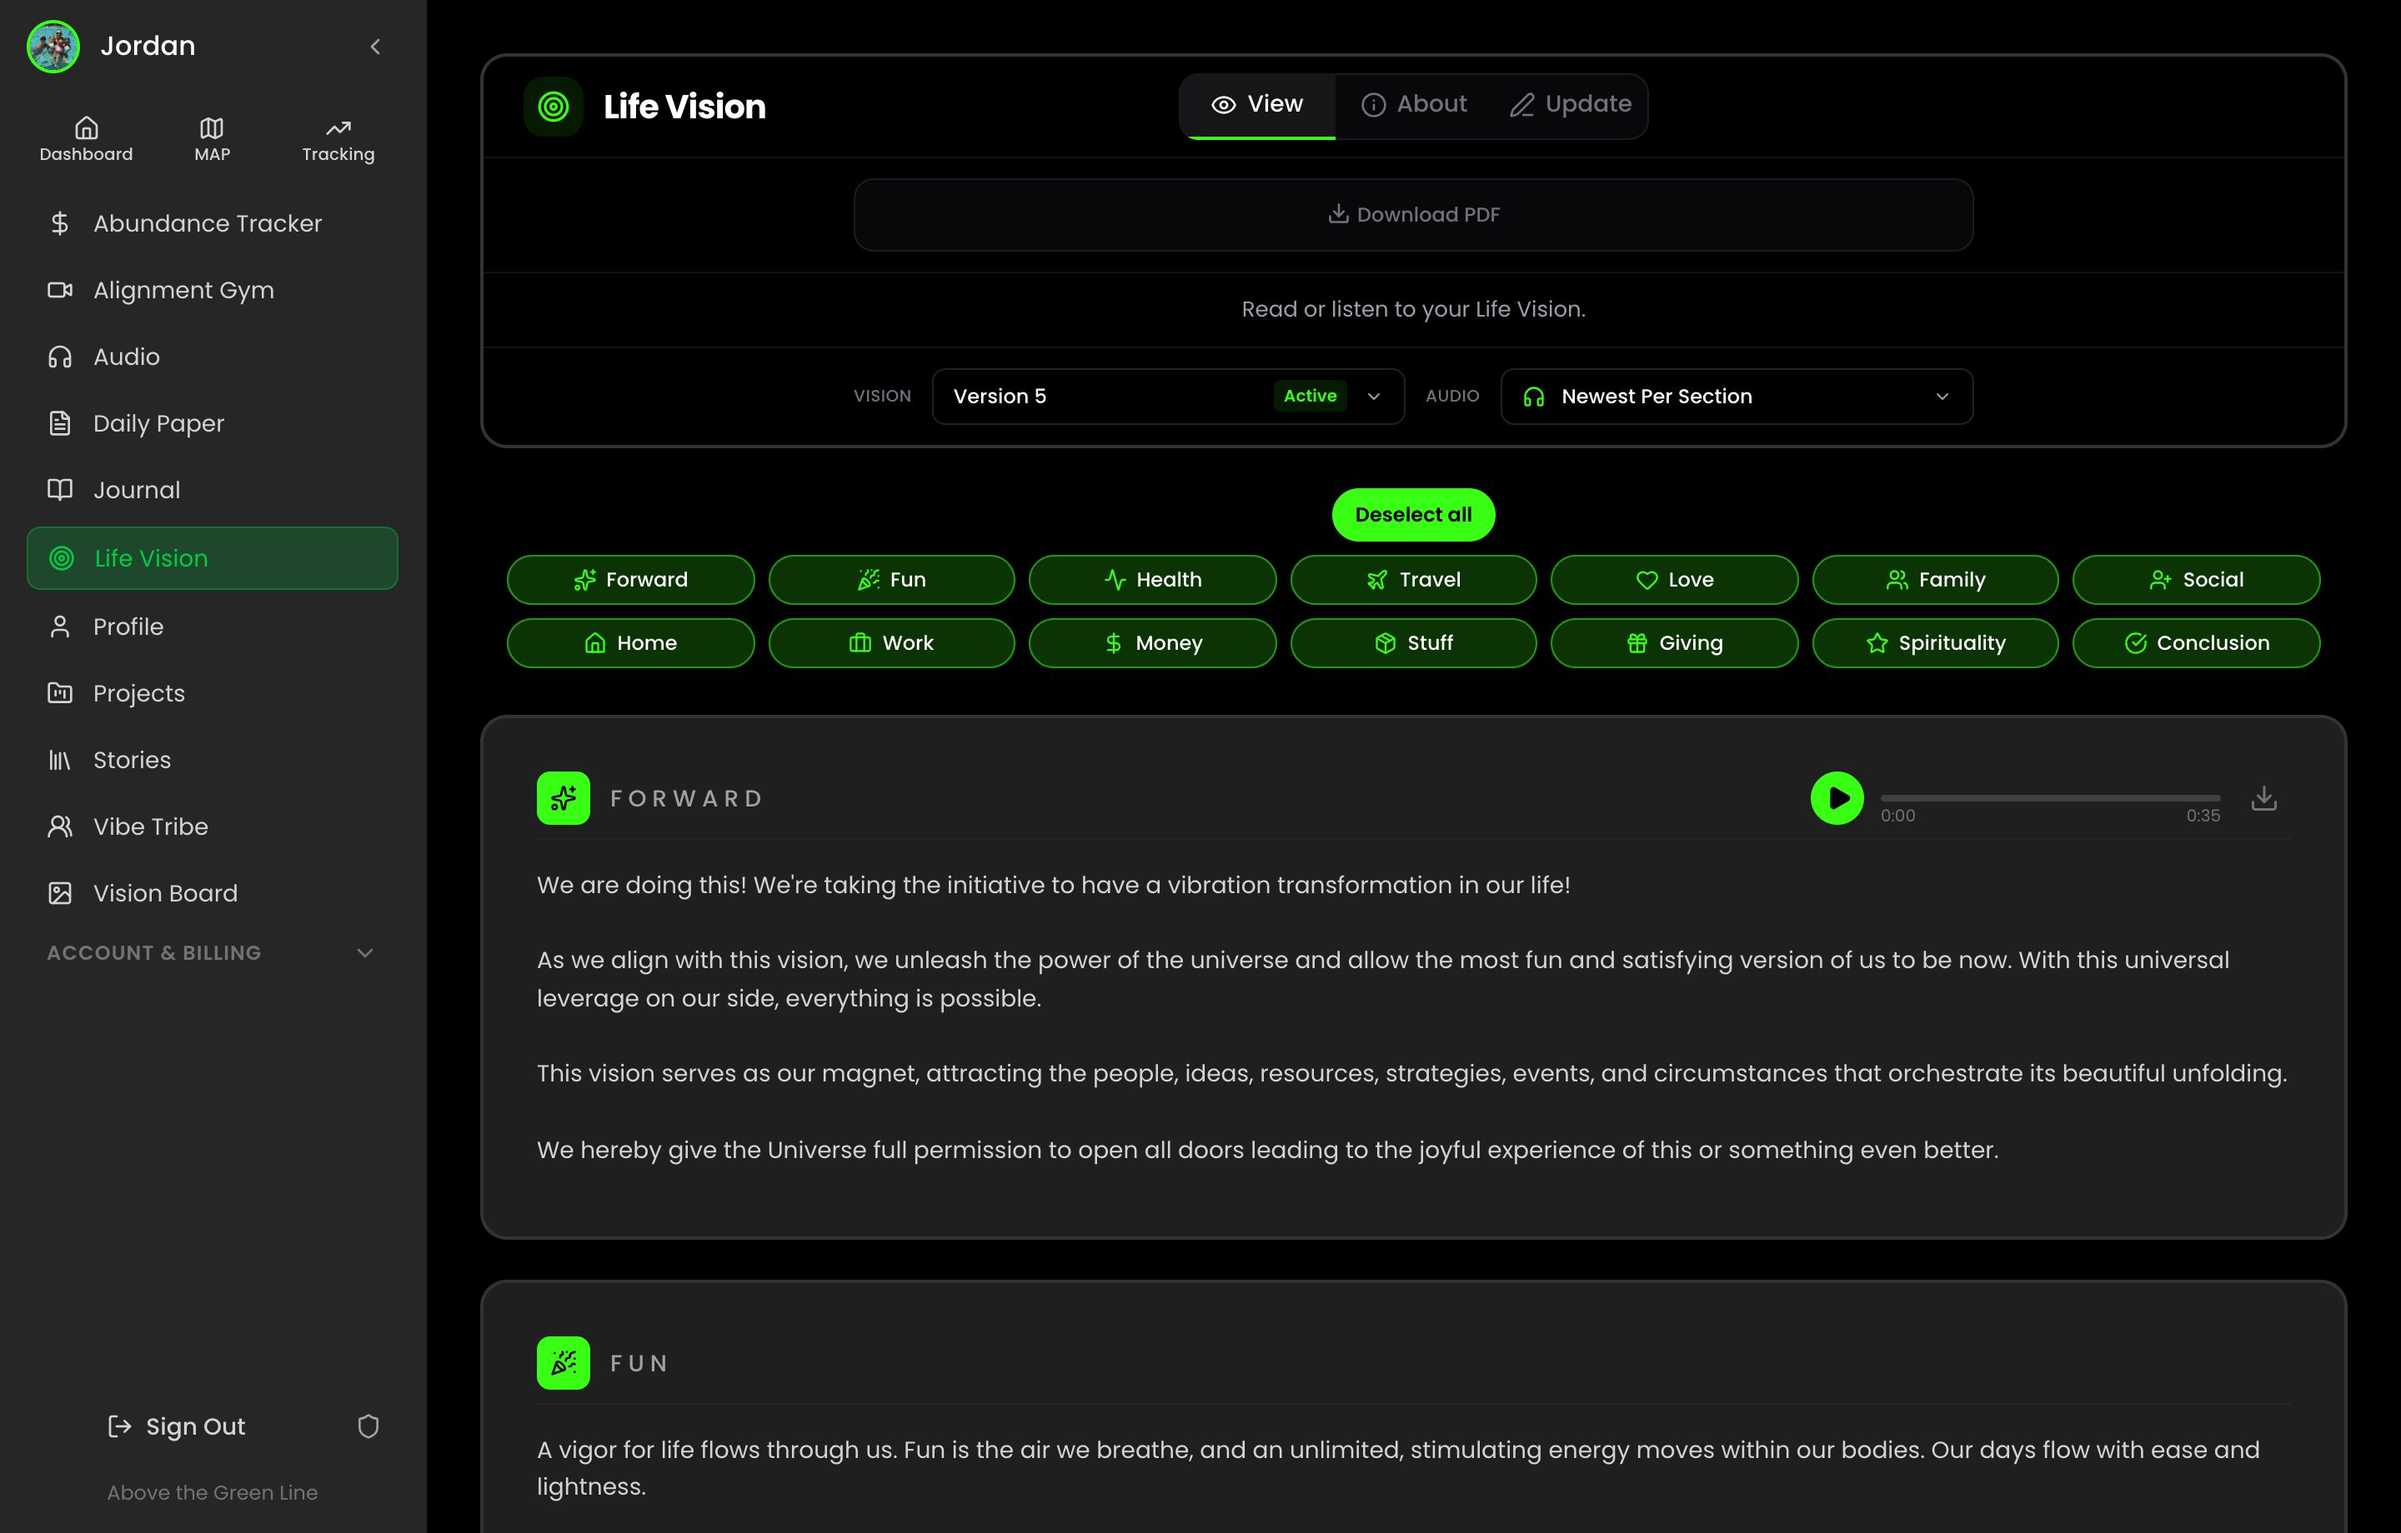
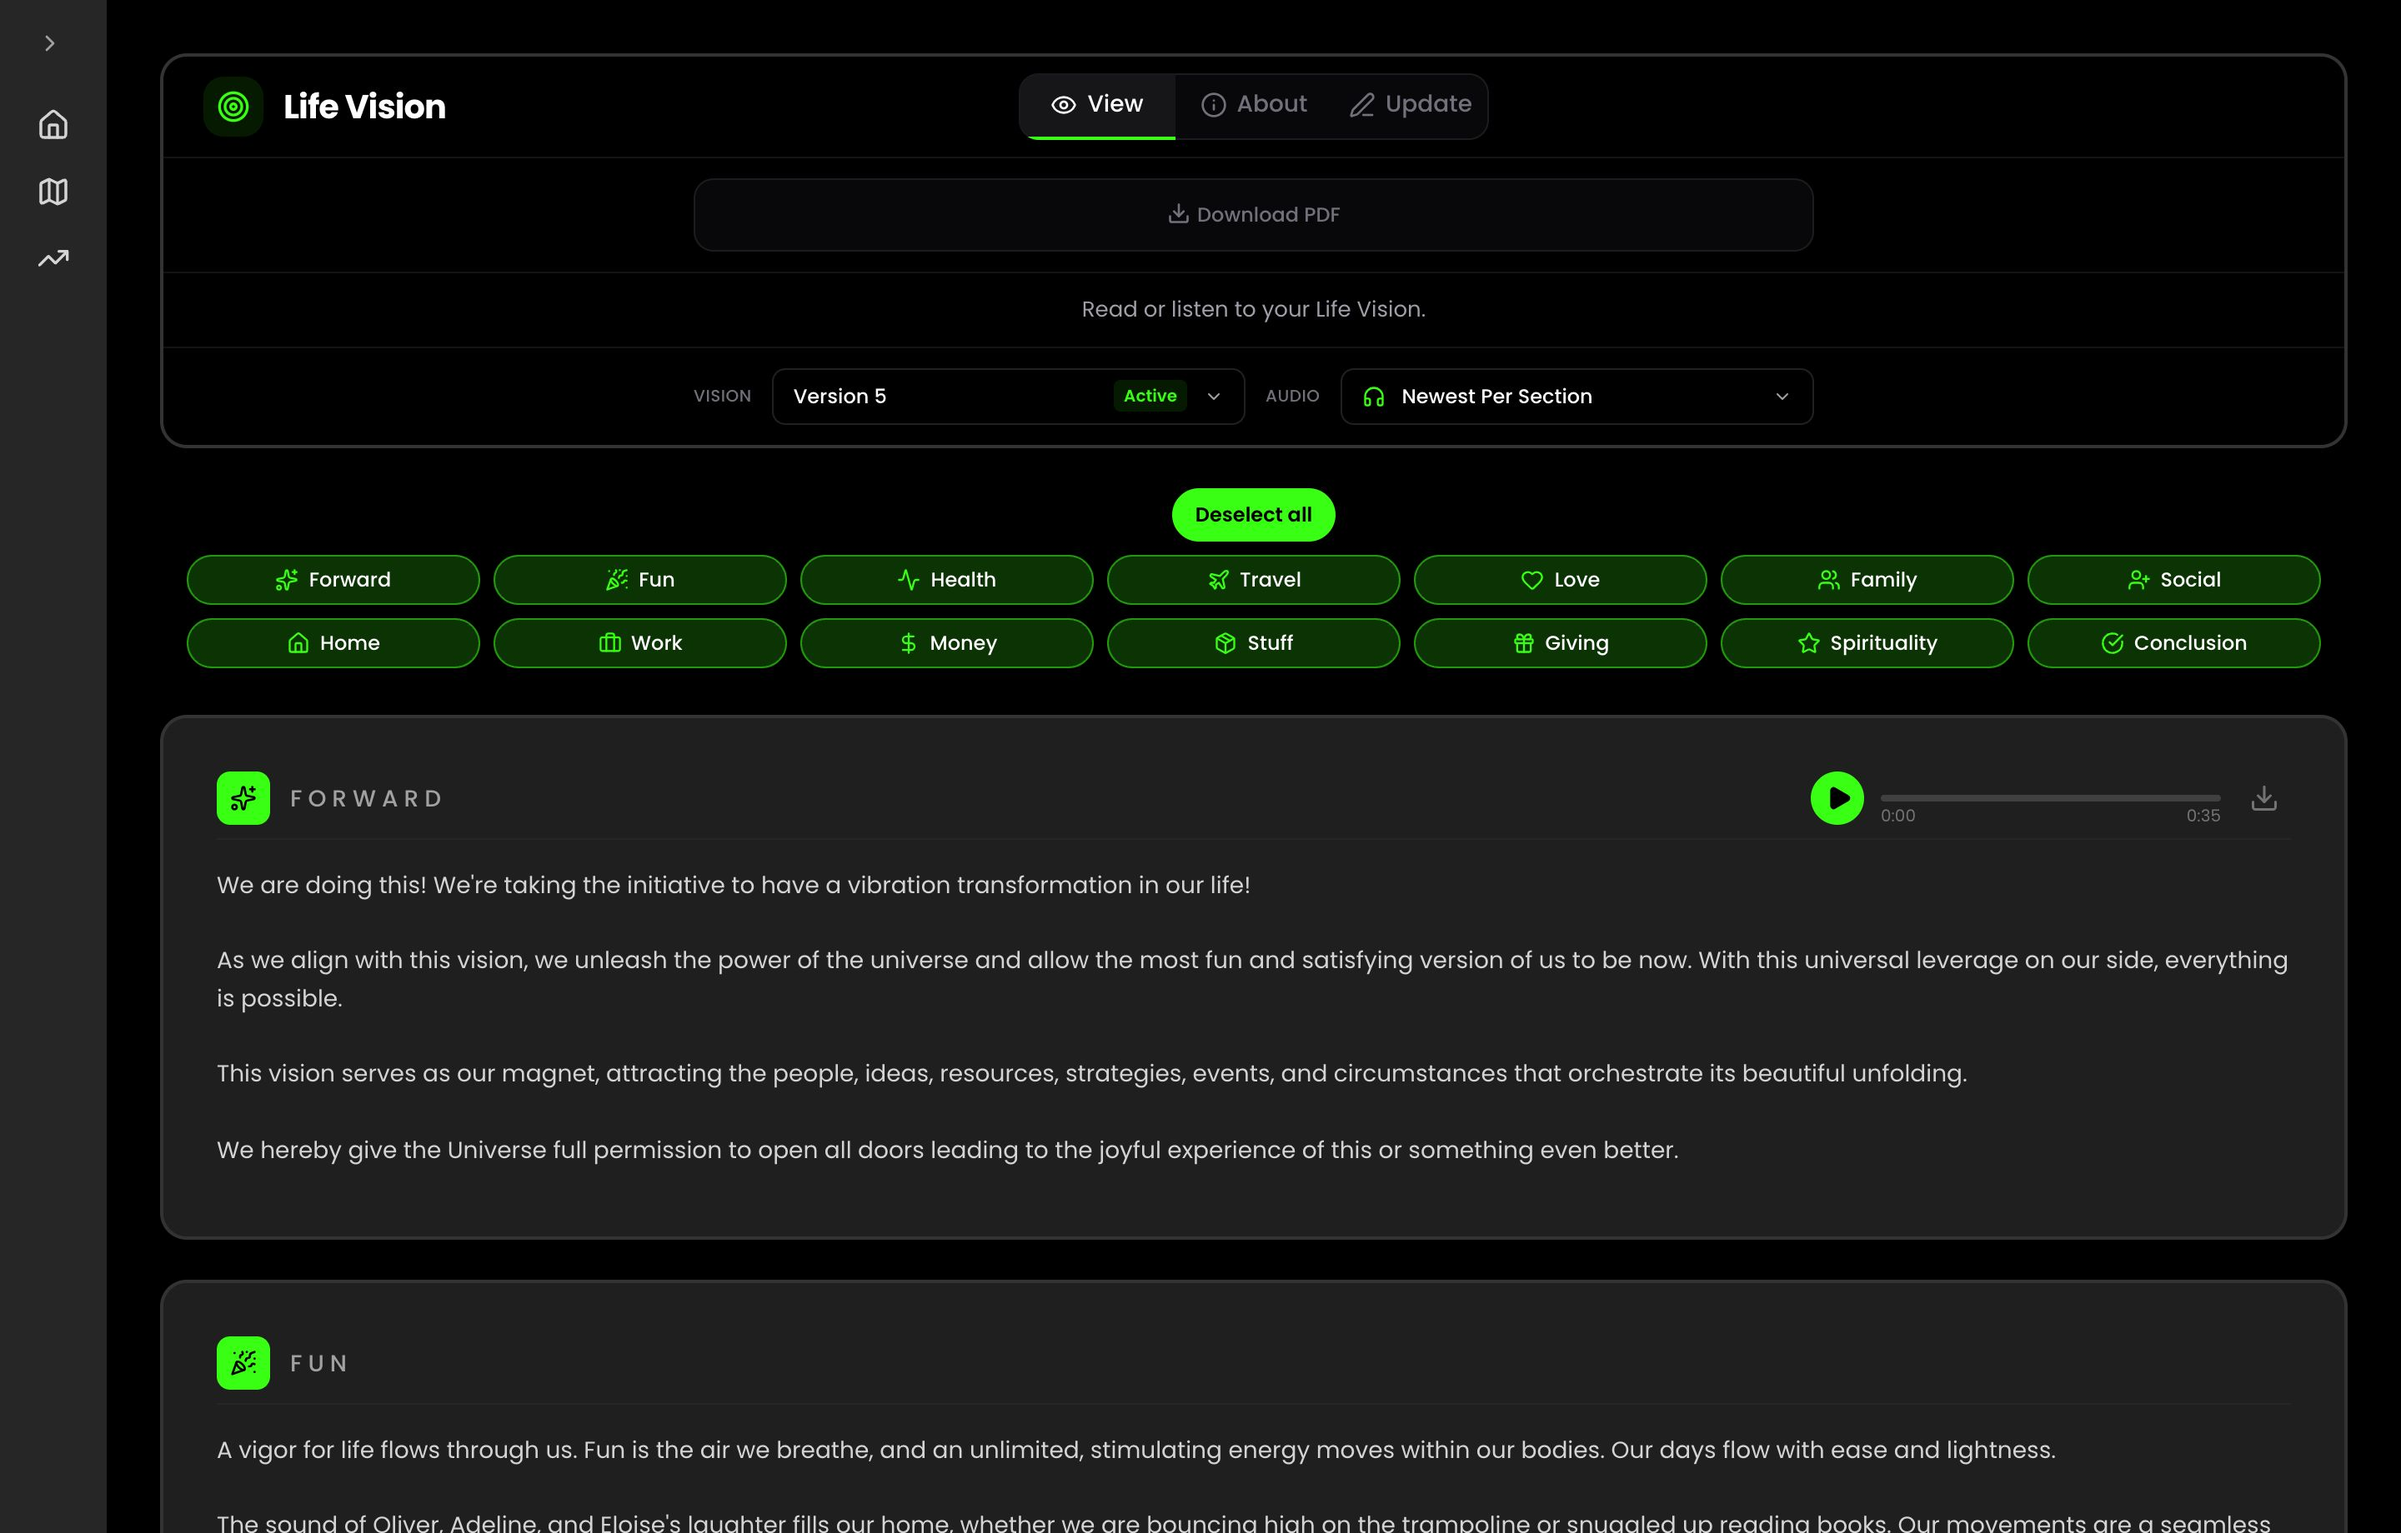
feat: scroll two columns of real platform screenshots on the homepage preview
Show the product across Life Vision, MAP, Vision Board, and the rest of the studio instead of three static frames.

diff --git a/src/components/marketing/home/PlatformScreens.tsx b/src/components/marketing/home/PlatformScreens.tsx
@@ -1,38 +1,144 @@
 import Image from 'next/image'
 
-const SHOTS = [
+type Shot = {
+  src: string
+  alt: string
+  width: number
+  height: number
+}
+
+const LEFT: Shot[] = [
+  {
+    src: '/home-preview/screenshots/vibe-tribe.jpg',
+    alt: 'Vibe Tribe community feed with member wins',
+    width: 2880,
+    height: 1840,
+  },
   {
     src: '/home-preview/screenshots/life-vision.jpg',
-    alt: 'Life Vision in Vibration Fit: Version 5 with Forward, Fun, and the twelve life categories',
-    label: 'Life Vision',
+    alt: 'Life Vision with the twelve life categories',
+    width: 2880,
+    height: 1840,
+  },
+  {
+    src: '/home-preview/screenshots/dashboard.jpg',
+    alt: 'Vibration Fit dashboard',
+    width: 2880,
+    height: 1840,
+  },
+  {
+    src: '/home-preview/screenshots/journal.jpg',
+    alt: 'Journal entries in Vibration Fit',
+    width: 2880,
+    height: 1840,
+  },
+  {
+    src: '/home-preview/screenshots/audio.jpg',
+    alt: 'Audio Studio playing Life Vision audio',
+    width: 2880,
+    height: 1840,
+  },
+  {
+    src: '/home-preview/screenshots/abundance-tracker.jpg',
+    alt: 'Abundance Tracker',
+    width: 2880,
+    height: 1840,
+  },
+  {
+    src: '/home-preview/screenshots/projects.jpg',
+    alt: 'Projects in Vibration Fit',
+    width: 2880,
+    height: 1840,
+  },
+]
+
+const RIGHT: Shot[] = [
+  {
+    src: '/home-preview/screenshots/vision-board.jpg',
+    alt: 'Vision Board with actualized items',
+    width: 2880,
+    height: 1840,
   },
   {
     src: '/home-preview/screenshots/map.jpg',
-    alt: 'My Alignment Plan in Vibration Fit: today\'s Activate, Create, Connect, and Attend plus custom commitments',
-    label: 'My Alignment Plan',
+    alt: 'My Alignment Plan for today',
+    width: 2880,
+    height: 1840,
   },
   {
-    src: '/home-preview/screenshots/vision-board.jpg',
-    alt: 'Vision Board in Vibration Fit: actualized items with vision and reality side by side',
-    label: 'Vision Board',
+    src: '/home-preview/screenshots/tracking.jpg',
+    alt: 'Tracking streaks and metrics',
+    width: 2880,
+    height: 1840,
   },
-] as const
+  {
+    src: '/home-preview/screenshots/alignment-gym.jpg',
+    alt: 'The Alignment Gym',
+    width: 2880,
+    height: 1840,
+  },
+  {
+    src: '/home-preview/screenshots/daily-paper.jpg',
+    alt: 'Daily Paper',
+    width: 2880,
+    height: 1840,
+  },
+  {
+    src: '/home-preview/screenshots/profile.jpg',
+    alt: 'Profile in Vibration Fit',
+    width: 2880,
+    height: 1840,
+  },
+  {
+    src: '/home-preview/screenshots/stories.jpg',
+    alt: 'Stories in Vibration Fit',
+    width: 2880,
+    height: 1840,
+  },
+]
+
+function Column({
+  shots,
+  direction,
+}: {
+  shots: Shot[]
+  direction: 'up' | 'down'
+}) {
+  return (
+    <div className={`hp-note-collage-col is-${direction}`}>
+      <div className="hp-note-collage-track">
+        {shots.map((shot) => (
+          <figure key={shot.src} className="hp-note-collage-tile">
+            <Image
+              src={shot.src}
+              alt={shot.alt}
+              width={shot.width}
+              height={shot.height}
+              sizes="(min-width: 1024px) 22vw, 46vw"
+            />
+          </figure>
+        ))}
+        {shots.map((shot) => (
+          <figure key={`${shot.src}-loop`} className="hp-note-collage-tile" aria-hidden="true">
+            <Image
+              src={shot.src}
+              alt=""
+              width={shot.width}
+              height={shot.height}
+              sizes="(min-width: 1024px) 22vw, 46vw"
+            />
+          </figure>
+        ))}
+      </div>
+    </div>
+  )
+}
 
 export function PlatformScreens() {
   return (
-    <div className="hp-screens" aria-label="Actual Vibration Fit platform screens">
-      {SHOTS.map((shot) => (
-        <figure key={shot.src} className="hp-screen">
-          <figcaption className="hp-screen-label">{shot.label}</figcaption>
-          <Image
-            src={shot.src}
-            alt={shot.alt}
-            width={2880}
-            height={1840}
-            sizes="(min-width: 1024px) 42vw, 94vw"
-          />
-        </figure>
-      ))}
+    <div className="hp-note-collage" aria-label="Vibration Fit platform screens">
+      <Column shots={LEFT} direction="up" />
+      <Column shots={RIGHT} direction="down" />
     </div>
   )
 }

diff --git a/src/components/marketing/home/marketing.css b/src/components/marketing/home/marketing.css
@@ -1409,36 +1409,4 @@ html:has([data-preview]) body {
   line-height: 1.7;
 }
 
-.hp-screens {
-  display: grid;
-  gap: 1.1rem;
-  width: 100%;
-}
-
-.hp-screen {
-  margin: 0;
-  overflow: hidden;
-  border: 1px solid rgba(255, 255, 255, 0.12);
-  border-radius: 0.9rem;
-  background: #0a0a0a;
-  box-shadow: 0 18px 40px rgba(0, 0, 0, 0.45);
-}
-
-.hp-screen-label {
-  margin: 0;
-  padding: 0.55rem 0.8rem;
-  border-bottom: 1px solid rgba(255, 255, 255, 0.08);
-  background: #111;
-  color: #a3a3a3;
-  font-size: 10px;
-  font-weight: 600;
-  letter-spacing: 0.16em;
-  text-transform: uppercase;
-}
-
-.hp-screen img {
-  display: block;
-  width: 100%;
-  height: auto;
-}
 
